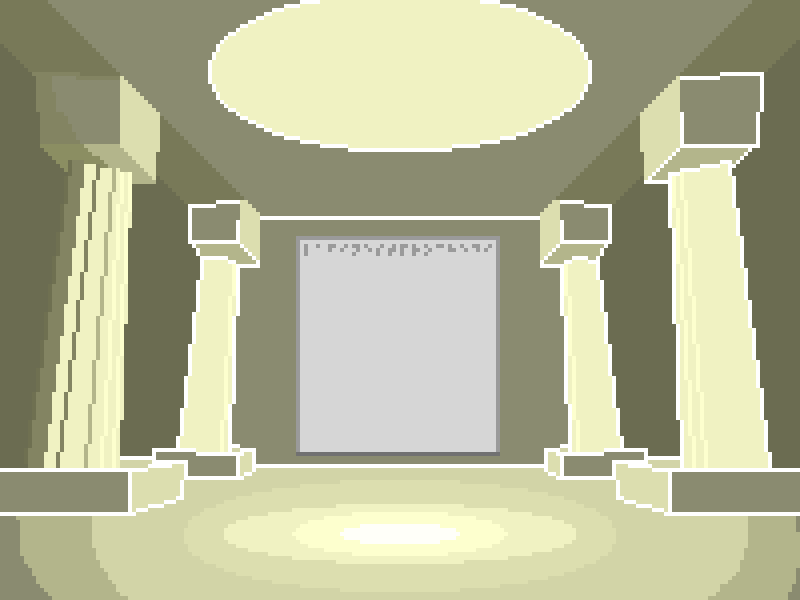
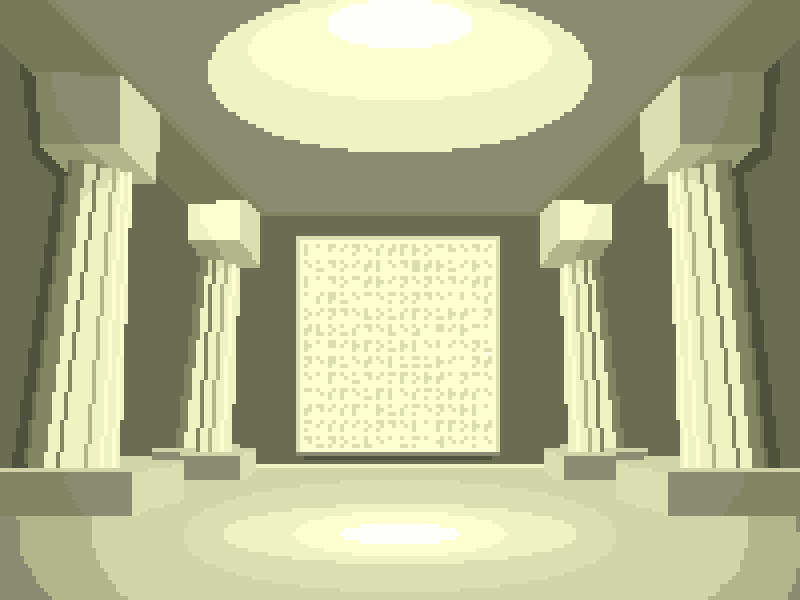
Add quest text in the middle of temple and click event to launch first world

diff --git a/hub/hub.js b/hub/hub.js
@@ -2,13 +2,37 @@ let img;
 let greenslim;
 let roseslim;
 let slimsize = 64;
+let fadeAmount = 0;  // Niveau d'opacité du fade (0 = transparent, 255 = opaque)
+let fading = false;  // Variable pour activer le fade
+let fadeCompleted = false; // Variable pour vérifier si le fade est terminé
 
-// Load the image.
+// Coordonnées et dimensions du rectangle
+let rectX = 298;
+let rectY = 238;
+let rectWidth = 201;
+let rectHeight = 216;
+let isHovering = false; // Variable pour suivre l'état de la souris
+
+// Texte à afficher
+let message = `La fin est proche.
+Dieu doit le détruire.
+La doctrine ne dit pas que,
+Ce monde a besoin de vous.
+Pourtant, vous devez agir, car,
+
+Agir pour le bien, 
+une quête luxuriante,
+À peu d’importance.
+Ces peuples morts et disparus,
+Mener la mission de,
+L’apport du nouveau. `;
+
 function preload() {
     img = loadImage("temple.png");
     greenslim = loadImage("greenslim_idle.gif");
     roseslim = loadImage("roseslim_idle.gif");
-  }
+    customFont = loadFont("FT88-Regular.ttf");
+}
 
 function setup() {
     createCanvas(800, 600);
@@ -20,20 +44,85 @@ function setup() {
 
     roseslim.resize(slimsize, slimsize);
     roseslim.pause();
+
+    textFont(customFont);
+    textSize(10);
+    textAlign(CENTER, TOP);
+
+    cursor(ARROW); 
 }
 
-
 function draw() {    
-    image(img, 0, 0);
+    if (!fadeCompleted) {
+        image(img, 0, 0);
 
-    image(greenslim, 330, 500);
-    greenslim.play();
+        // Vérification de la collision souris-rectangle uniquement si le fade n'est pas en cours
+        if (!fading) {
+            if (isMouseInsideRectangle()) {
+                isHovering = true;
+                cursor(HAND);  // Change le curseur en main uniquement si pas de fade
+                fill(0);  // Texte en noir
 
-    //image(roseslim, 403, 500);
-    // Flipping horizontal pour roseslim
-    push();                    // Sauvegarde le contexte de transformation
-    scale(-1, 1);               // Applique une mise à l'échelle négative en X (flip horizontal)
-    image(roseslim, -467, 500); // Compense le flip en ajustant la position en X
-    pop();  
-    roseslim.play();
+                let padding = 10;
+                text(message, rectX + padding, rectY + padding, rectWidth - 2 * padding, rectHeight - 2 * padding);
+            } else {
+                isHovering = false;
+                cursor(ARROW);
+            }
+        }
+
+        // Affichage des slimes
+        image(greenslim, 330, 500);
+        greenslim.play();
+
+        push();                    
+        scale(-1, 1);  
+        image(roseslim, -467, 500);
+        pop();  
+        roseslim.play();
+    }
+
+    // Gestion du fade-out
+    if (fading) {
+        fadeToBlack();
+    }
+}
+
+// Fonction pour démarrer le fade-out
+function startFade() {
+    fading = true;
+    cursor(WAIT);  // Change immédiatement le curseur en mode attente (loading)
+}
+
+// Fonction de fondu au noir progressif
+function fadeToBlack() {
+    if (fadeAmount < 255) {
+        fadeAmount += 5;  // Incrément progressif de l'opacité
+    } else {
+        fading = false;
+        fadeCompleted = true;  // Une fois l'écran noir, terminer le fade
+        //noCursor();  // Cacher le curseur une fois le fade terminé
+    }
+    fill(0, fadeAmount);
+    rect(0, 0, width, height);
+}
+
+// Vérifie si la souris est à l'intérieur du rectangle
+function isMouseInsideRectangle() {
+    return mouseX > rectX && mouseX < rectX + rectWidth &&
+           mouseY > rectY && mouseY < rectY + rectHeight;
+}
+
+// Désactiver les clics souris après le fade
+function mousePressed() {
+    if (fadeCompleted) return; // Empêche de cliquer si le fade est terminé
+
+    if (isMouseInsideRectangle()) {
+        onRectangleClick();
+    }
+}
+
+// Fonction déclenchée lorsqu'on clique dans le rectangle
+function onRectangleClick() {    
+    startFade();  // Déclencher le fondu au noir
 }
